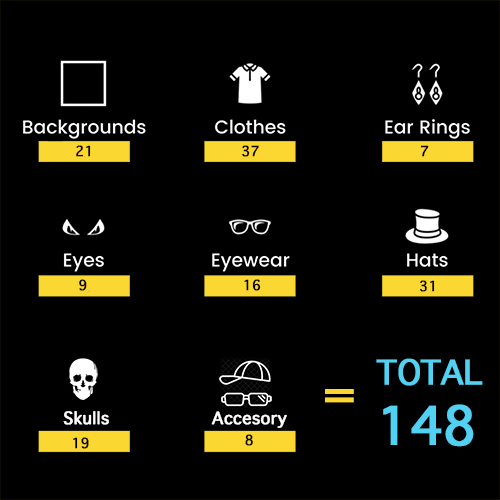
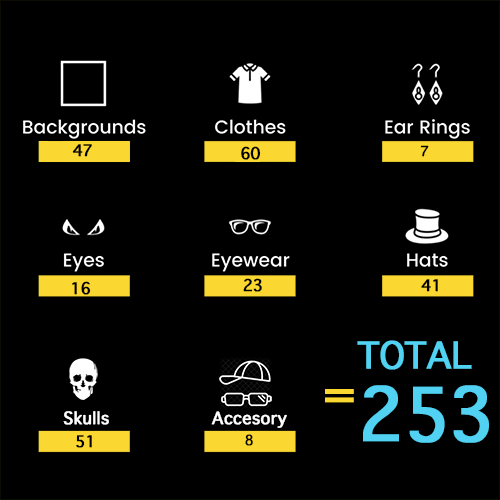
added traits

diff --git a/index.html b/index.html
@@ -111,7 +111,7 @@ Licence URI: https://www.os-templates.com/template-terms
       <!-- ################################################################################################ -->
       <div class="sectiontitle">
         <h6 class="heading font-x2">How Rare are we?</h6>
-        <p class="nospace font-xs"> Each Zombie Doom is unique and programmatically generated from over 180 possible traits.</p>
+        <p class="nospace font-xs"> Each Zombie Doom is unique and programmatically generated from over 253 possible traits.</p>
        
       </div>
       <!-- <figure class="one_half first">
